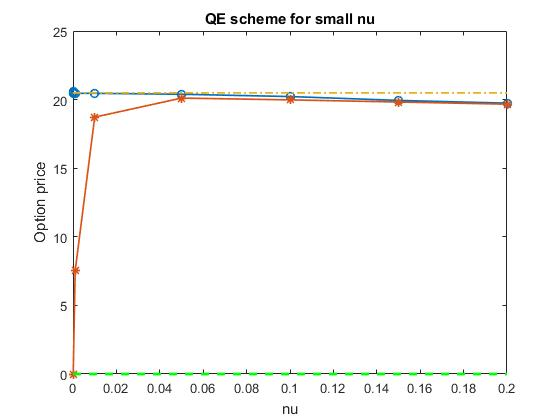
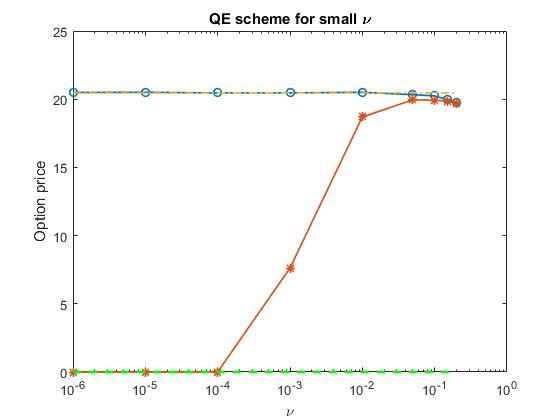
Modified the proof in Appendix A.

diff --git a/Template/modefiedTemplate/Heston_Stochastic_Volatility.tex b/Template/modefiedTemplate/Heston_Stochastic_Volatility.tex
@@ -65,10 +65,10 @@ The GAIL includes a suite of algorithms that applies the Monte Carlo methods for
 
 The QE model was developed by \cite{Andersen2006}. It is a market standard simulation method for the Heston model. Its attractiveness lies in its efficiency. It relies on simple probability density functions and needs a moderate amount of storage. Depending on the value of the volatility, the QE scheme approximates its distribution using either Gaussian or exponential distribution. After getting the value of the volatility for each time step, we discretize the asset price process. As we know, the computation of Broadie-Kaya algorithm is time consuming, but it is bias-free by construction. We discretize its scheme to get the simulation of the dynamic of asset price process. The Broadie-Kaya scheme does not satisfy an equivalent discrete-time martingale condition. The martingale property can be attained by adjusting a certain term in the scheme.
 
-The setup of the paper is as follows: we first introduce Heston model, QE scheme and the brief idea behind GAIL. Then, we explain our new algorithm and the improved algorithm using variance reduction techniques. At last, we show its performance in comparison with various widespread used schemes and with different variance reduction applications
+The setup of the paper is as follows: we first introduce Heston model, QE scheme and the brief idea behind GAIL. Then, we explain our new algorithm and the improved algorithm using variance reduction techniques. At last, we show its performance in comparison with various widespread used schemes and with different variance reduction applications.
 
 \section{Options Modeled by the Heston Stochastic Volatility Model}
-\subsection{Heston Model}
+\subsection{The Heston Model}
 Heston model is defined as
  \begin{align}
     \d X & =\mu X\,\d t+\sqrt{V}X\,\d W_1\label{eq1}\\
@@ -217,19 +217,16 @@ where
   \]
 and $A=K_2+\frac{1}{2}K_4$.
 \section{Overcoming Numerical Errors for Small Volatility of Volatility}
-\subsection{Modification of QE scheme without martingale correction}
+
 When $\nu$ equal or close to zero, the QE scheme we introduced above can be fragile. Our numerical results show that the option price given by QE scheme deviate from that calculated by exact sampling\footnote{Introduced by Broadie, M. and Kaya, O. (2006) for the Heston stochastic volatility model.They applied the numerical inversion of a cumulative distribution using the characteristic function. The estimator of an asset price generate using the sample stock price and variance from the exact distribution is unbiased. The scheme is computationally expensive, so we used it as benchmarks for result comparison.} and our modified scheme even further when the initial volatility $V_0$ not equals to long-term variance $\theta$. %So, we apply the change of variables technique to reduce the cancellation error.\\
 \begin{figure}[h]
 \centering
 \includegraphics[width=0.55\textwidth]{FigureIn2_3_1}
 \caption{European call option price calculated by QE scheme and our modified QE scheme. Initial price $=80$, strike $=100$, interest $=0$, $\kappa=1$, $\nu=0.5$, $\rho=-0.3$, $\theta=0.09$ and $V_0=0.36$. Small circles denote the price calculated by our modified QE scheme when the relative tolerance = 0.01 was met. The stars denote the price calculated by original QE scheme. The dot-dashed line denotes the option price calculated by Black-Scholes formula when $\nu=0$. The dashed line at the bottom denotes the option price given by QE scheme when $\nu=0$. }
 \end{figure}
-\begin{figure}[h]
-\centering
-\includegraphics[width=0.55\textwidth]{FigureIn2_3_1_log}
-\end{figure}
 
-\subsubsection{Find more exact $\gamma_1$ and $\gamma_2$}
+\subsection{Finding a $\gamma$ that is accurate for all $\nu$}\label{se:findGamma}
+
 Recall Eq.\eqref{lnX}, the Broadie-Kaya scheme in integral form is written as
 \begin{equation*}
 \begin{split}
@@ -303,7 +300,7 @@ For $\nu\neq 0$, we approximate the integral $\int_{t}^{t+\Delta}V(u)\d u$ as fo
   \int_{t}^{t+\Delta}V(u)\d u = \Delta[\gamma V(t)+(1-\gamma) V(t+\Delta)] + O(\nu\Delta^{1.5}).
 \end{equation*}
 See the proof of the error order of this approximation in ~\ref{sec:AppendixA}.
-\subsubsection{Change of variables}
+\subsection{Change of variables to avoid overflow}
 We want to do change of variable of $s^2, m, \psi, b^{-2}, a, b, K_0,K_1,K_2, K_3,$ and $ K_4$ in a way that $\nu$ becomes multiplier rather than divisor.\\
 For parameters in QE scheme, we do change of variables. As we see, new variables $\tilde{s}^2, \tilde{m}$ and $\tilde{\psi}$ are free of $\nu$.
 %\begin{align*}
@@ -424,8 +421,10 @@ For $X$ when $\nu^2\tilde{\psi} > \psi_C $:
   \text{ln}\hat{X}(t+\Delta)=\text{ln}\hat{X}(t)+\tilde{K}_0+\frac{1}{\nu}\tilde{K}_1\hat{V}(t)+\frac{1}{\nu}\tilde{K}_2\hat{V}(t+\Delta)+\sqrt{\tilde{K}_3\hat{V}(t)+\tilde{K}_4\hat{V}(t+\Delta)}\cdot Z
 \end{equation}
 Since the discretization scheme is unstable only when $\nu$ is very small, for the $\nu^2\tilde{\psi} > \psi_C $ case, the scheme remains unchanged. We just rewrite it in terms of new variables.
-\subsubsection{The new algorithm for modified QE scheme and the discretization scheme of $X$}
-Summary of QE algorithm and the discretization scheme of $X$:\\
+
+\subsection{The modified QE scheme and discretization of $X$}
+
+Summary of QE algorithm and the discretization scheme of $X$:
 \begin{enumerate}
 \item Given $\hat{V}(t)$, compute $m$ and $S^2$ from following equations
 \begin{align*}
@@ -460,9 +459,10 @@ Summary of QE algorithm and the discretization scheme of $X$:\\
   \item Given ln$\hat{X}(t)$, $\tilde{V}(t)$ and the value for $\tilde{V}(t+\Delta)$, compute ln$\hat{X}(t+\Delta)$ from Eq.\eqref{newLnX2}
 \end{enumerate}
 \end{enumerate}
-\subsection{QE scheme with martingale correction}
-\subsubsection{Cancel out $\frac{1}{\nu}$ in the expression of $\ln X$}
-We calculate $K_0^*+K_1\hat{V}(t)+K_2\hat{V}(t+\Delta)$ first. \\
+
+\subsection{Canceling out $\nu^{-1}$ out of the expression for $\ln X$ for the martingale correction}
+
+We calculate $K_0^*+K_1\hat{V}(t)+K_2\hat{V}(t+\Delta)$ first.
 Recall $K_0^*= -\frac{Ab^2a}{1-2Aa}+\frac{1}{2}\ln(1-2Aa)-(K_1+\frac{1}{2}K_3)\hat{V}(t)$ for case $\psi\leq\psi_c$, where $A=K_2+\frac{1}{2}K_4$.
 %\begin{align*}
 %  -\frac{Ab^2a}{1-2Aa} &= -\frac{1}{\nu}\frac{\tilde{A}\tilde{a}\tilde{b^2}}{1-2\nu\tilde{A}\tilde{a}}\\
@@ -630,21 +630,21 @@ For $K_3\hat{V}(t)+K_4\hat{V}(t+\Delta)$, it is the same as QE scheme without ma
 %f(j\delta, i\delta) \cong \frac{\pi}{M} \sum^M_{n-1}
 %Q_{\theta_n} (j\cos \theta_n + i\sin \theta_n)\, .\label{appeqn}
 %\end{equation}
-Recall the process 
+Recall the process
 \begin{equation*}
-  \d V_t = \kappa(\theta-V_t)\d t +\nu\sqrt{V_t}\d W_t\text{,} \quad V_0 \text{ given}
+  \d V_t = \kappa(\theta-V_t)\d t +\nu\sqrt{V_t}\d W_t\text{,} \quad V_0 \text{ given},
 \end{equation*}
-defined at the beginning of Chapter 2.\\ 
-Let $U_t$ satisfy 
+defined in \eqref{eq2}.
+Let $U_t$ satisfy a similar stochastic differential equation:
 \begin{equation*}
-  \d U_t = -\kappa U_t\d t + \nu\sqrt{V_t}\d W_t\text{,} \quad U_0 = 0.\numberthis\label{appeqnV_t}
+  \,\d U_t = -\kappa U_t\,\d t + \nu\sqrt{V_t}\,\d W_t\text{,} \quad U_0 = 0.\numberthis\label{appeqnV_t}
 \end{equation*}
-Let $Y_t=V_t-U_t$ and note that $Y_t$ satisfies a deterministic equation
+Let $Y_t=V_t-U_t$, and note that $Y_t$ satisfies a \emph{deterministic} equation:
 \begin{equation*}
   %\d (V_t-U_t) = \kappa(\theta-(V_t-U_t))\d t .
-  \d Y_t = \kappa(\theta-Y_t)\d t, \quad Y_0 = V_0.
+  \d Y_t = \kappa(\theta-Y_t)\,\d t, \quad Y_0 = V_0.
 \end{equation*}
-Moreover, $Y_t=V_t$ when $\nu = 0$. So, we apply similar deduction to $Y_t$ as in Section 3.1.1.
+Moreover, $Y_t=V_t$ when $\nu = 0$. So, we apply similar deduction to $Y_t$ as in section \ref{se:findGamma}:
 \begin{align*}
 %\d Y_t &=\kappa(\theta-Y_t)\d t\\
 %\frac{\d Y_t}{\theta-Y_t} &=\kappa \d t\\
@@ -652,105 +652,117 @@ Moreover, $Y_t=V_t$ when $\nu = 0$. So, we apply similar deduction to $Y_t$ as i
 Y_t &=\theta+(Y_0-\theta)e^{-\kappa t}\\
 Y_{t+\Delta} &=\theta+(Y_0-\theta)e^{-\kappa (t+\Delta)}
 \end{align*}
-From the result in Section 3.1.1, $\theta=\frac{Y_t-e^{\kappa\Delta}Y_{t+\Delta}}{1-e^{\kappa\Delta}}$.
+From the result in Section \ref{se:findGamma}, we have $\theta=\frac{Y_t-e^{\kappa\Delta}Y_{t+\Delta}}{1-e^{\kappa\Delta}}$.
 \begin{align*}
    \int^{t+\Delta}_t Y_u\d u %& =\theta\Delta+(Y_0-\theta)\int^{t+\Delta}_t e^{-\kappa u}\d u \\
     & =\theta\Delta+\frac{(Y_0-\theta)e^{-\kappa t}-(Y_0-\theta)e^{-\kappa (t+\Delta)}}{\kappa}\\
     &= \Delta[\gamma Y_t+(1-\gamma)Y_{t+\Delta}]
   \end{align*}
-for $\gamma = \frac{1-e^{\kappa\Delta}+\kappa\Delta}{\kappa\Delta(1-e^{\kappa\Delta})}$.\\
+where $\gamma = (1-e^{\kappa\Delta}+\kappa\Delta)\big/\kappa\Delta(1-e^{\kappa\Delta})$.
 %\begin{equation*}
 % \int_{t}^{t+\Delta}(V_u-U_u)\d u =\int^{t+\Delta}_t Y_u\d u= \Delta(\gamma_1Y_t+(1-\gamma_1)Y_{t+\Delta})
 %\end{equation*}
 %where $\gamma_1$ and $(1-\gamma)$ are the same as in Section 3.1.1.\\
-Now we have the integral of $V_t$ written in terms of $V$ and $U$ as follows.
-\begin{equation*}
+Now we have the integral of $V_t$ written in terms of $V$ and $U$ as follows:
+\begin{equation}\label{intV_U}
 \begin{split}
-   \int_{t}^{t+\Delta}V_u\d u &= \int_{t}^{t+\Delta}(Y_u+U_u)\d u\\ &=\Delta(\gamma Y_t+(1-\gamma )Y_{t+\Delta})+\int_{t}^{t+\Delta}U_u\d u\\
-   &=\Delta(\gamma  V_t+(1-\gamma ) V_{t+\Delta})-\bigg(\Delta(\gamma  U_t+(1-\gamma ) U_{t+\Delta})-\int_{t}^{t+\Delta}U_u\d u\bigg)
+   \int_{t}^{t+\Delta}V_u\,\d u &= \int_{t}^{t+\Delta}(Y_u+U_u)\,\d u\\ &=\Delta[\gamma Y_t+(1-\gamma )Y_{t+\Delta}]+\int_{t}^{t+\Delta}U_u\,\d u\\
+   &=\Delta[\gamma  V_t+(1-\gamma ) V_{t+\Delta}]-\bigg\{\Delta[\gamma  U_t+(1-\gamma ) U_{t+\Delta}]-\int_{t}^{t+\Delta}U_u\,\d u\bigg\}.
 \end{split}
-\end{equation*}
-Our problem becomes to show that the approximation $\Delta(\gamma_1 U_t+(1-\gamma_1) U_{t+\Delta})$ of $\int_{t}^{t+\Delta}U_u\d u$ is of order $o(\nu\Delta)$.\\
-First, we can write the solution of $U_t$ as
+\end{equation}
+Our problem is to show that the error in approximating $\int_{t}^{t+\Delta}U_u\,\d u$ by $\Delta[\gamma_1 U_t+(1-\gamma_1) U_{t+\Delta}]$ is $o(\nu\Delta)$.
+
+We can write the solution of $U_t$ as
 %\begin{equation*}
 %  \begin{split}
-%     \d e^{\kappa t}U_t & = \kappa e^{\kappa t}U_t\d t + e^{\kappa t}\d U_t \\
-%       & = \kappa e^{\kappa t}U_t \d t +e^{\kappa t}(-\kappa U_t\d t+\nu\sqrt{V_t}\d W_t) \\
-%       &= \nu e^{\kappa t}\sqrt{V_t}\d W_t
+%     \d e^{\kappa t}U_t & = \kappa e^{\kappa t}U_t\,\d t + e^{\kappa t}\,\d U_t \\
+%       & = \kappa e^{\kappa t}U_t \,\d t +e^{\kappa t}(-\kappa U_t\,\d t+\nu\sqrt{V_t}\,\d W_t) \\
+%       &= \nu e^{\kappa t}\sqrt{V_t}\,\d W_t
 %  \end{split}
 %\end{equation*}
 %Integrate on both sides,
 \begin{align*}
-  %f_t & = \nu\int_{0}^{t}e^{\kappa s}\sqrt{V_s}\d W_s \\
-  U_t & = \nu e^{-\kappa t}\int_{0}^{t}e^{\kappa s}\sqrt{V_s}\d W_s.
+  %f_t & = \nu\int_{0}^{t}e^{\kappa s}\sqrt{V_s}\,\d W_s \\
+  U_t & = \nu e^{-\kappa t}\int_{0}^{t}e^{\kappa s}\sqrt{V_s}\,\d W_s.
 \end{align*}
-Now we start to working on the integral of $U_t$.
+Now we rewrite the integral of $U_t$ by using integration by parts twice:
 \begin{align*}
-  \int_{t}^{t+\Delta}U_u\d u %& = \int_{t}^{t+\Delta}U_u\d (u-t-\Delta\gamma_1) \\
-   & = U_u(u-t-\Delta\gamma)\big|_t^{t+\Delta}-\int_{t}^{t+\Delta}(u-t-\Delta\gamma)\d U_u \\
-   %& = U_u(u-t-\Delta\gamma_1)|_t^{t+\Delta}-\int_{t}^{t+\Delta}(u-t-\Delta\gamma_1)(-\kappa U_u\d u +\nu\sqrt{V_u}\d W_u)\\
+  \int_{t}^{t+\Delta}U_u\,\d u %& = \int_{t}^{t+\Delta}U_u\,\d (u-t-\Delta\gamma_1) \\
+   & = U_u(u-t-\Delta\gamma)\big|_t^{t+\Delta}-\int_{t}^{t+\Delta}(u-t-\Delta\gamma)\,\d U_u \\
+   %& = U_u(u-t-\Delta\gamma_1)|_t^{t+\Delta}-\int_{t}^{t+\Delta}(u-t-\Delta\gamma_1)(-\kappa U_u\,\d u +\nu\sqrt{V_u}\,\d W_u)\\
 %\end{align*}
 %Let $A=-t-\Delta\gamma_1$,
 %\begin{align*}
- % \int_{t}^{t+\Delta}U_u\d u
- %& = U_{t+\Delta}(t+\Delta-t-\Delta\gamma_1)-U_{t}(-\Delta\gamma_1)-\int_{t}^{t+\Delta}(u-t-\Delta\gamma_1)(-\kappa U_u)\d u\\
- % & -\int_{t}^{t+\Delta}(u-t-\Delta\gamma_1)\nu\sqrt{V_u}\d W_u \\
-   & = \Delta\big(\gamma U_t+(1-\gamma ) U_{t+\Delta}\big)+\int_{t}^{t+\Delta}(u-t-\Delta\gamma )\kappa U_u\d u\\
-   &-\nu\int_{t}^{t+\Delta}(u-t-\Delta\gamma )\sqrt{V_u}\d W_u\\%\numberthis\label{appeqnU_t}
-   & = \Delta\big(\gamma U_t+(1-\gamma ) U_{t+\Delta}\big)+\int_{t}^{t+\Delta}\kappa U_u\d \big(\frac{(u-t-\Delta\gamma )^2}{2}-\frac{\Delta^2\gamma ^2}{2}\big)\\
-   &-\nu\int_{t}^{t+\Delta}(u-t-\Delta\gamma )\sqrt{V_u}\d W_u\\
-   & = \Delta\big(\gamma U_t+(1-\gamma ) U_{t+\Delta}\big)+\kappa U_{u}\big(\frac{(u-t-\Delta\gamma )^2}{2}-\frac{\Delta^2\gamma ^2}{2}\big)\bigg|_t^{t+\Delta}\\
-   &- \int_{t}^{t+\Delta}\big(\frac{(u-t-\Delta\gamma )^2}{2}-\frac{\Delta^2\gamma ^2}{2}\big)\kappa \d U_u-\nu\int_{t}^{t+\Delta}(u-t-\Delta\gamma )\sqrt{V_u}\d W_u\\
-   & = \Delta\big(\gamma U_t+(1-\gamma ) U_{t+\Delta}\big)+\kappa U_{t+\Delta}\Delta^2\bigg(\frac{1}{2}-\gamma \bigg)\\
-   &+\int_{t}^{t+\Delta}\bigg(\frac{(u-t)^2}{2}-(u-t)\Delta\gamma \bigg)\kappa^2U_u\d u- \nu\int_{t}^{t+\Delta}h(u)\sqrt{V_u}\d W_u\numberthis\label{appeqnU_t}\\
+ % \int_{t}^{t+\Delta}U_u\,\d u
+ %& = U_{t+\Delta}(t+\Delta-t-\Delta\gamma_1)-U_{t}(-\Delta\gamma_1)-\int_{t}^{t+\Delta}(u-t-\Delta\gamma_1)(-\kappa U_u)\,\d u\\
+ % & -\int_{t}^{t+\Delta}(u-t-\Delta\gamma_1)\nu\sqrt{V_u}\,\d W_u \\
+   & = \Delta\big[\gamma U_t+(1-\gamma ) U_{t+\Delta}\big]+\int_{t}^{t+\Delta}(u-t-\Delta\gamma )\kappa U_u\,\d u\\
+   &\quad\quad-\nu\int_{t}^{t+\Delta}(u-t-\Delta\gamma )\sqrt{V_u}\,\d W_u\\%\numberthis\label{appeqnU_t}
+   %& = \Delta\big(\gamma U_t+(1-\gamma ) U_{t+\Delta}\big)+\int_{t}^{t+\Delta}\kappa U_u\,\d \big(\frac{(u-t-\Delta\gamma )^2}{2}-\frac{\Delta^2\gamma ^2}{2}\big)\\
+   %&\quad\quad-\nu\int_{t}^{t+\Delta}(u-t-\Delta\gamma )\sqrt{V_u}\,\d W_u\\
+   & = \Delta\big[\gamma U_t+(1-\gamma ) U_{t+\Delta}\big]+\frac{1}{2}\kappa U_{u}\big[{(u-t-\Delta\gamma )^2}-{\Delta^2\gamma ^2}\big]\big|_t^{t+\Delta}\\
+   &\quad\quad- \int_{t}^{t+\Delta}\frac{1}{2}\big[(u-t-\Delta\gamma )^2-\Delta^2\gamma ^2\big] \kappa\,\d U_u\\
+   &\quad\quad-\nu\int_{t}^{t+\Delta}(u-t-\Delta\gamma )\sqrt{V_u}\,\d W_u\\
+   & = \Delta\big[\gamma U_t+(1-\gamma ) U_{t+\Delta}\big]+\kappa U_{t+\Delta}\Delta^2\bigg(\frac{1}{2}-\gamma \bigg)\\
+   &\quad\quad+\int_{t}^{t+\Delta}(u-t)\bigg[\frac{(u-t)}{2}-\Delta\gamma \bigg]\kappa^2U_u\,\d u\\
+   &\quad\quad-\nu\int_{t}^{t+\Delta}h(u)\sqrt{V_u}\,\d W_u\numberthis\label{appeqnU_t}
 \end{align*}
-where $h(u) =\kappa\big(\frac{(u-t)^2}{2}-(u-t)\Delta\gamma \big)+(u-t-\Delta\gamma )$.\\
+where $h(u) =\kappa(u-t)\big[\frac{(u-t)}{2}-\Delta\gamma \big]+u-t-\Delta\gamma$.
 %\begin{align*}
-%   \int_{t}^{t+\Delta}(u-t-\Delta\gamma_1)(-\kappa U_u)\d u & = \int_{t}^{t+\Delta}\frac{1}{2}(-\kappa U_u)\d (u-t-\Delta\gamma_1)^2\\
-%   & = -\int_{t}^{t+\Delta}\kappa U_u\d \big(\frac{(u-t-\Delta\gamma_1)^2}{2}-\frac{\Delta^2\gamma_1^2}{2}\big)\\
-%   & = -\kappa U_{u}\big(\frac{(u-t-\Delta\gamma_1)^2}{2}-\frac{\Delta^2\gamma_1^2}{2}\big)\big|_t^{t+\Delta}+\int_{t}^{t+\Delta}\big(\frac{(u-t-\Delta\gamma_1)^2}{2}-\frac{\Delta^2\gamma_1^2}{2}\big)\kappa \d U_u\\
+%   \int_{t}^{t+\Delta}(u-t-\Delta\gamma_1)(-\kappa U_u)\,\d u & = \int_{t}^{t+\Delta}\frac{1}{2}(-\kappa U_u)\,\d (u-t-\Delta\gamma_1)^2\\
+%   & = -\int_{t}^{t+\Delta}\kappa U_u\,\d \big(\frac{(u-t-\Delta\gamma_1)^2}{2}-\frac{\Delta^2\gamma_1^2}{2}\big)\\
+%   & = -\kappa U_{u}\big(\frac{(u-t-\Delta\gamma_1)^2}{2}-\frac{\Delta^2\gamma_1^2}{2}\big)\big|_t^{t+\Delta}+\int_{t}^{t+\Delta}\big(\frac{(u-t-\Delta\gamma_1)^2}{2}-\frac{\Delta^2\gamma_1^2}{2}\big)\kappa \,\d U_u\\
 %   %& = -\kappa U_{t+\Delta}\big(\frac{\Delta^2(1-\gamma_1)^2}{2}-\frac{\Delta^2\gamma_1^2}{2}\big)+\kappa U_{t}\big(\frac{\Delta^2\gamma_1^2}{2}-\frac{\Delta^2\gamma_1^2}{2}\big)\\
-%   %& + \int_{t}^{t+\Delta}\big(\frac{(u-t-\Delta\gamma_1)^2}{2}-\frac{\Delta^2\gamma_1^2}{2}\big)\kappa\d U_u\\
+%   %& + \int_{t}^{t+\Delta}\big(\frac{(u-t-\Delta\gamma_1)^2}{2}-\frac{\Delta^2\gamma_1^2}{2}\big)\kappa\,\d U_u\\
 %%\end{align*}
 %%Let $B=-\frac{\Delta^2\gamma_1^2}{2}$,
 %%\begin{align*}
-%   %\int_{t}^{t+\Delta}(u-t-\Delta\gamma_1)(-\kappa U_u)\d u
-%   & = \kappa U_{t+\Delta}\big(\frac{(1-\gamma_1)^2-\gamma_1^2}{2}\Delta^2\big)+ \int_{t}^{t+\Delta}\big(\frac{(u-t-\Delta\gamma_1)^2}{2}-\frac{\Delta^2\gamma_1^2}{2}\big)\kappa \d U_u\\
-%   & = -\kappa U_{t+\Delta}\Delta^2\bigg(\frac{1}{2}-\gamma_1\bigg)+\int_{t}^{t+\Delta}\bigg(\frac{(u-t)^2}{2}-(u-t)\Delta\gamma_1\bigg)\kappa\d U_u\\
-%   %& = O(\nu\Delta^2)+\int_{t}^{t+\Delta}\bigg(\frac{(u-t)^2}{2}-(u-t)\Delta\gamma_1\bigg)\kappa\d U_u\\
-%   & = O(\nu\Delta^2)+\int_{t}^{t+\Delta}\bigg(\frac{(u-t)^2}{2}-(u-t)\Delta\gamma_1\bigg)\kappa \d (-\kappa U_u\d u + \nu\sqrt{V_u}\d W_u)\\
-%   & = O(\nu\Delta^2)-\int_{t}^{t+\Delta}\bigg(\frac{(u-t)^2}{2}-(u-t)\Delta\gamma_1\bigg)\kappa^2U_u\d u\\
-%   & + \int_{t}^{t+\Delta}\bigg(\frac{(u-t)^2}{2}-(u-t)\Delta\gamma_1\bigg)\kappa\nu\sqrt{V_u}\d W_u\\
+%   %\int_{t}^{t+\Delta}(u-t-\Delta\gamma_1)(-\kappa U_u)\,\d u
+%   & = \kappa U_{t+\Delta}\big(\frac{(1-\gamma_1)^2-\gamma_1^2}{2}\Delta^2\big)+ \int_{t}^{t+\Delta}\big(\frac{(u-t-\Delta\gamma_1)^2}{2}-\frac{\Delta^2\gamma_1^2}{2}\big)\kappa \,\d U_u\\
+%   & = -\kappa U_{t+\Delta}\Delta^2\bigg(\frac{1}{2}-\gamma_1\bigg)+\int_{t}^{t+\Delta}\bigg(\frac{(u-t)^2}{2}-(u-t)\Delta\gamma_1\bigg)\kappa\,\d U_u\\
+%   %& = O(\nu\Delta^2)+\int_{t}^{t+\Delta}\bigg(\frac{(u-t)^2}{2}-(u-t)\Delta\gamma_1\bigg)\kappa\,\d U_u\\
+%   & = O(\nu\Delta^2)+\int_{t}^{t+\Delta}\bigg(\frac{(u-t)^2}{2}-(u-t)\Delta\gamma_1\bigg)\kappa \,\d (-\kappa U_u\,\d u + \nu\sqrt{V_u}\,\d W_u)\\
+%   & = O(\nu\Delta^2)-\int_{t}^{t+\Delta}\bigg(\frac{(u-t)^2}{2}-(u-t)\Delta\gamma_1\bigg)\kappa^2U_u\,\d u\\
+%   & + \int_{t}^{t+\Delta}\bigg(\frac{(u-t)^2}{2}-(u-t)\Delta\gamma_1\bigg)\kappa\nu\sqrt{V_u}\,\d W_u\\
 %   & = O(\nu\Delta^2)
 %\end{align*}
-It easy to see that the second term of \ref{appeqnU_t} $\kappa U_{t+\Delta}\Delta^2\bigg(\frac{1}{2}-\gamma \bigg)=O(\nu\Delta^2)$. By Holder inequality, the third term of \ref{appeqnU_t}
+Since $U_t=O(\nu)$, it is easy to see that the second term in \eqref{appeqnU_t} is $O(\nu\Delta^2)$. By H\"older's inequality, the third term of \eqref{appeqnU_t} is
 \begin{align*}
-   \int_{t}^{t+\Delta}\bigg(\frac{(u-t)^2}{2}-(u-t)\Delta\gamma \bigg)\kappa^2U_u\d u &\leq \Delta\gamma \kappa^2\sqrt{\int_{t}^{t+\Delta}\bigg(\frac{(u-t)^2}{2}-(u-t)\Delta\gamma \bigg)^2\d u\int_{t}^{t+\Delta}U_u^2\d u}\\
-   & = O(\nu\Delta^2)
+   &\,\, \int_{t}^{t+\Delta}\bigg(\frac{(u-t)^2}{2}-(u-t)\Delta\gamma \bigg)\kappa^2U_u\,\d u \\
+   \leq&\,\, \Delta\gamma \kappa^2\sqrt{\int_{t}^{t+\Delta}\bigg(\frac{(u-t)^2}{2}-(u-t)\Delta\gamma \bigg)^2\,\d u\int_{t}^{t+\Delta}U_u^2\,\d u}\\
+    = &\,\,O(\nu\Delta^2).
 \end{align*}
-Now we want to show that for the last term of \ref{appeqnU_t}, which is an Ito integral $$I =\nu\int_{t}^{t+\Delta}h(u)\sqrt{V_u}\d W_u.$$ By Theorem 4.7 of \cite{Klebaner2005}, $I$ is a continuous zero mean square integrable martingale.  Since $V_t$ is a Cox-Ingersoll-Ross process, we know its expectation given $V_0$ is $\mathbb{E}(V_t)=V_0 e^{-\kappa u}+\theta(1-e^{-\kappa u})$, which is of order O(1).
+Now we want to show that the last term of \eqref{appeqnU_t} is $O(\nu\Delta^{1.5})$.
+
+Let $$I =\nu\int_{t}^{t+\Delta}h(u)\sqrt{V_u}\,\d W_u,$$
+by Theorem 4.7 of \cite{Klebaner2005}, It\^o integral $I$ is a continuous zero mean square integrable martingale.  Since $V_t$ is a Cox-Ingersoll-Ross process, we know that its expectation given $V_0$ is $\mathbb{E}(V_t)=V_0 e^{-\kappa u}+\theta(1-e^{-\kappa u})$\cite{Dufresne2001}, which is O(1). Thus, by the It\^o isometry,
 \begin{align*}
- \mathbb{E}(I)&= 0\\
-  \text{Var}(I)&= \mathbb{E}(I^2) \\
-  \text{by Ito Isometry} &= \mathbb{E}\bigg(\nu^2 \int_{t}^{t+\Delta}h(u)^2 V_u\d u\bigg)\\
-  &=\nu^2\int_{t}^{t+\Delta}h(u)^2 \mathbb{E}(V_u)\d u\\
- % &=\nu^2\int_{t}^{t+\Delta}\big(\frac{(u-t)^2}{2}-\Delta\gamma_1(u-t)\big)^2\kappa^2 \mathbb{E}(V_u)\d u\\
-%  &=\kappa^2\nu^2\bigg[\int_{t}^{t+\Delta}\frac{1}{20} (V_0 e^{-\kappa u}+\theta(1-e^{-\kappa u})) \d (u-t)^5\\
-%  &-\int_{t}^{t+\Delta}\frac{1}{4}\Delta\gamma_1 (V_0 e^{-\kappa u}+\theta(1-e^{-\kappa u}))\d (u-t)^4\\
-%  &+\int_{t}^{t+\Delta}\frac{\Delta^2}{3}\gamma_1^2(V_0 e^{-\kappa u}+\theta(1-e^{-\kappa u})) \d(u-t)^3\bigg]\\
+ %\mathbb{E}(I)&= 0\\
+  \text{Var}(I)%&= \mathbb{E}(I^2) \\
+  &= \mathbb{E}\bigg(\nu^2 \int_{t}^{t+\Delta}[h(u)]^2 V_u\,\d u\bigg)\\
+  &=\nu^2\int_{t}^{t+\Delta}[h(u)]^2 \mathbb{E}(V_u)\,\d u\\
+ % &=\nu^2\int_{t}^{t+\Delta}\big(\frac{(u-t)^2}{2}-\Delta\gamma_1(u-t)\big)^2\kappa^2 \mathbb{E}(V_u)\,\d u\\
+%  &=\kappa^2\nu^2\bigg[\int_{t}^{t+\Delta}\frac{1}{20} (V_0 e^{-\kappa u}+\theta(1-e^{-\kappa u})) \,\d (u-t)^5\\
+%  &-\int_{t}^{t+\Delta}\frac{1}{4}\Delta\gamma_1 (V_0 e^{-\kappa u}+\theta(1-e^{-\kappa u}))\,\d (u-t)^4\\
+%  &+\int_{t}^{t+\Delta}\frac{\Delta^2}{3}\gamma_1^2(V_0 e^{-\kappa u}+\theta(1-e^{-\kappa u})) \,\d(u-t)^3\bigg]\\
 %  &=\kappa^2\nu^2 \Delta^5\bigg(\frac{1}{20}(V_0 e^{-\kappa (\xi^\frac{1}{5}+t)}+\theta(1-e^{-\kappa (\xi^\frac{1}{5}+t)})-\frac{1}{4}\gamma_1(V_0 e^{-\kappa (\xi^\frac{1}{4}+t)}+\theta(1-e^{-\kappa (\xi^\frac{1}{4}+t)})\\
 %  &+\frac{1}{3}\gamma_1^2(V_0 e^{-\kappa (\xi^\frac{1}{3}+t)}+\theta(1-e^{-\kappa(\xi^\frac{1}{3}+t)}))\bigg)
-\text{by mean-value theorem}&=O(\nu^2\Delta^3)
+&=\nu^2\int_{t}^{t+\Delta}O(\Delta^2)\,\d u\\
+&=O(\nu^2\Delta^3)
 \end{align*}
 %where $\xi\in[t,t+\Delta]$.\\
 %Therefore, I is a normal random variable with mean zero and variance of order $O(\nu^2\Delta^5)$. I is of order $O(\nu\Delta^{2.5})$.\\
-%Similarly, for the third term of Equation \ref{appeqnU_t}, Ito integral $\int_{t}^{t+\Delta}(u-t-\Delta\gamma_1)\nu\sqrt{V_u}\d W_u$ is also a normal distributed random variable with mean zero and variance of order $O(\nu^2\Delta^{3})$. 
-So, $I$ is a normal distributed random variable with mean zero and variance of order $O(\nu^2\Delta^{3})$. The Ito integral $I$ is of order $O(\nu\Delta^{1.5})$.\\
-We proved that
+%Similarly, for the third term of Equation \ref{appeqnU_t}, Ito integral $\int_{t}^{t+\Delta}(u-t-\Delta\gamma_1)\nu\sqrt{V_u}\,\d W_u$ is also a normal distributed random variable with mean zero and variance of order $O(\nu^2\Delta^{3})$.
+since $\max\limits_{t\leq u\leq t+\Delta}|h(u)|=O(\Delta)$.
+So, $I$ is a normal distributed random variable with mean zero and variance of order $O(\nu^2\Delta^{3})$. The Ito integral $I$ is $O(\nu\Delta^{1.5})$.
+This implies that
 \begin{equation*}
-   \int_{t}^{t+\Delta}U_u\d u = \Delta\big(\gamma U_t+(1-\gamma) U_{t+\Delta}\big)+O(\nu\Delta^{1.5}),
+   \int_{t}^{t+\Delta}U_u\,\d u = \Delta\big(\gamma U_t+(1-\gamma) U_{t+\Delta}\big)+O(\nu\Delta^{1.5})
 \end{equation*}
-which is also true for $\int_{t}^{t+\Delta}V_u\d u$. Thus we proved that $\int_{t}^{t+\Delta}V_u\d u=\Delta\big(\gamma V_t+(1-\gamma) V_{t+\Delta}\big)+O(\nu\Delta^{1.5})$.
+in distribution and so by \eqref{intV_U}
+\begin{equation*}
+    \int_{t}^{t+\Delta}V_u\,\d u=\Delta\big(\gamma V_t+(1-\gamma) V_{t+\Delta}\big)+O(\nu\Delta^{1.5}).
+\end{equation*}
 \section*{Acknowledgments}
 %This section should come before the References. Funding
 %information may also be included here.

diff --git a/codes/FigureIn2_3_1.m b/codes/FigureIn2_3_1.m
@@ -54,12 +54,13 @@ QEzero = zeros(size(nu));
 
 %nu = log(nu);
 %nu = exp(nu);
+%QEprice = log(QEprice);
 n=10;
 figure
-plot(nu(1:n),ourQEprice(1:n),'-o',nu(1:n),QEprice(1:n),'-*','LineWidth',1.25)
-title('QE scheme for small nu')
-xlabel('log(nu)')
-%xlabel('nu')
+semilogx(nu(1:n),ourQEprice(1:n),'-o',nu(1:n),QEprice(1:n),'-*','LineWidth',1.25)
+title('QE scheme for small \nu')
+%xlabel('log(nu)')
+xlabel('\nu')
 ylabel('Option price')
 hold on
 plot(nu(1:n),v0,'-.','LineWidth',1.25)
